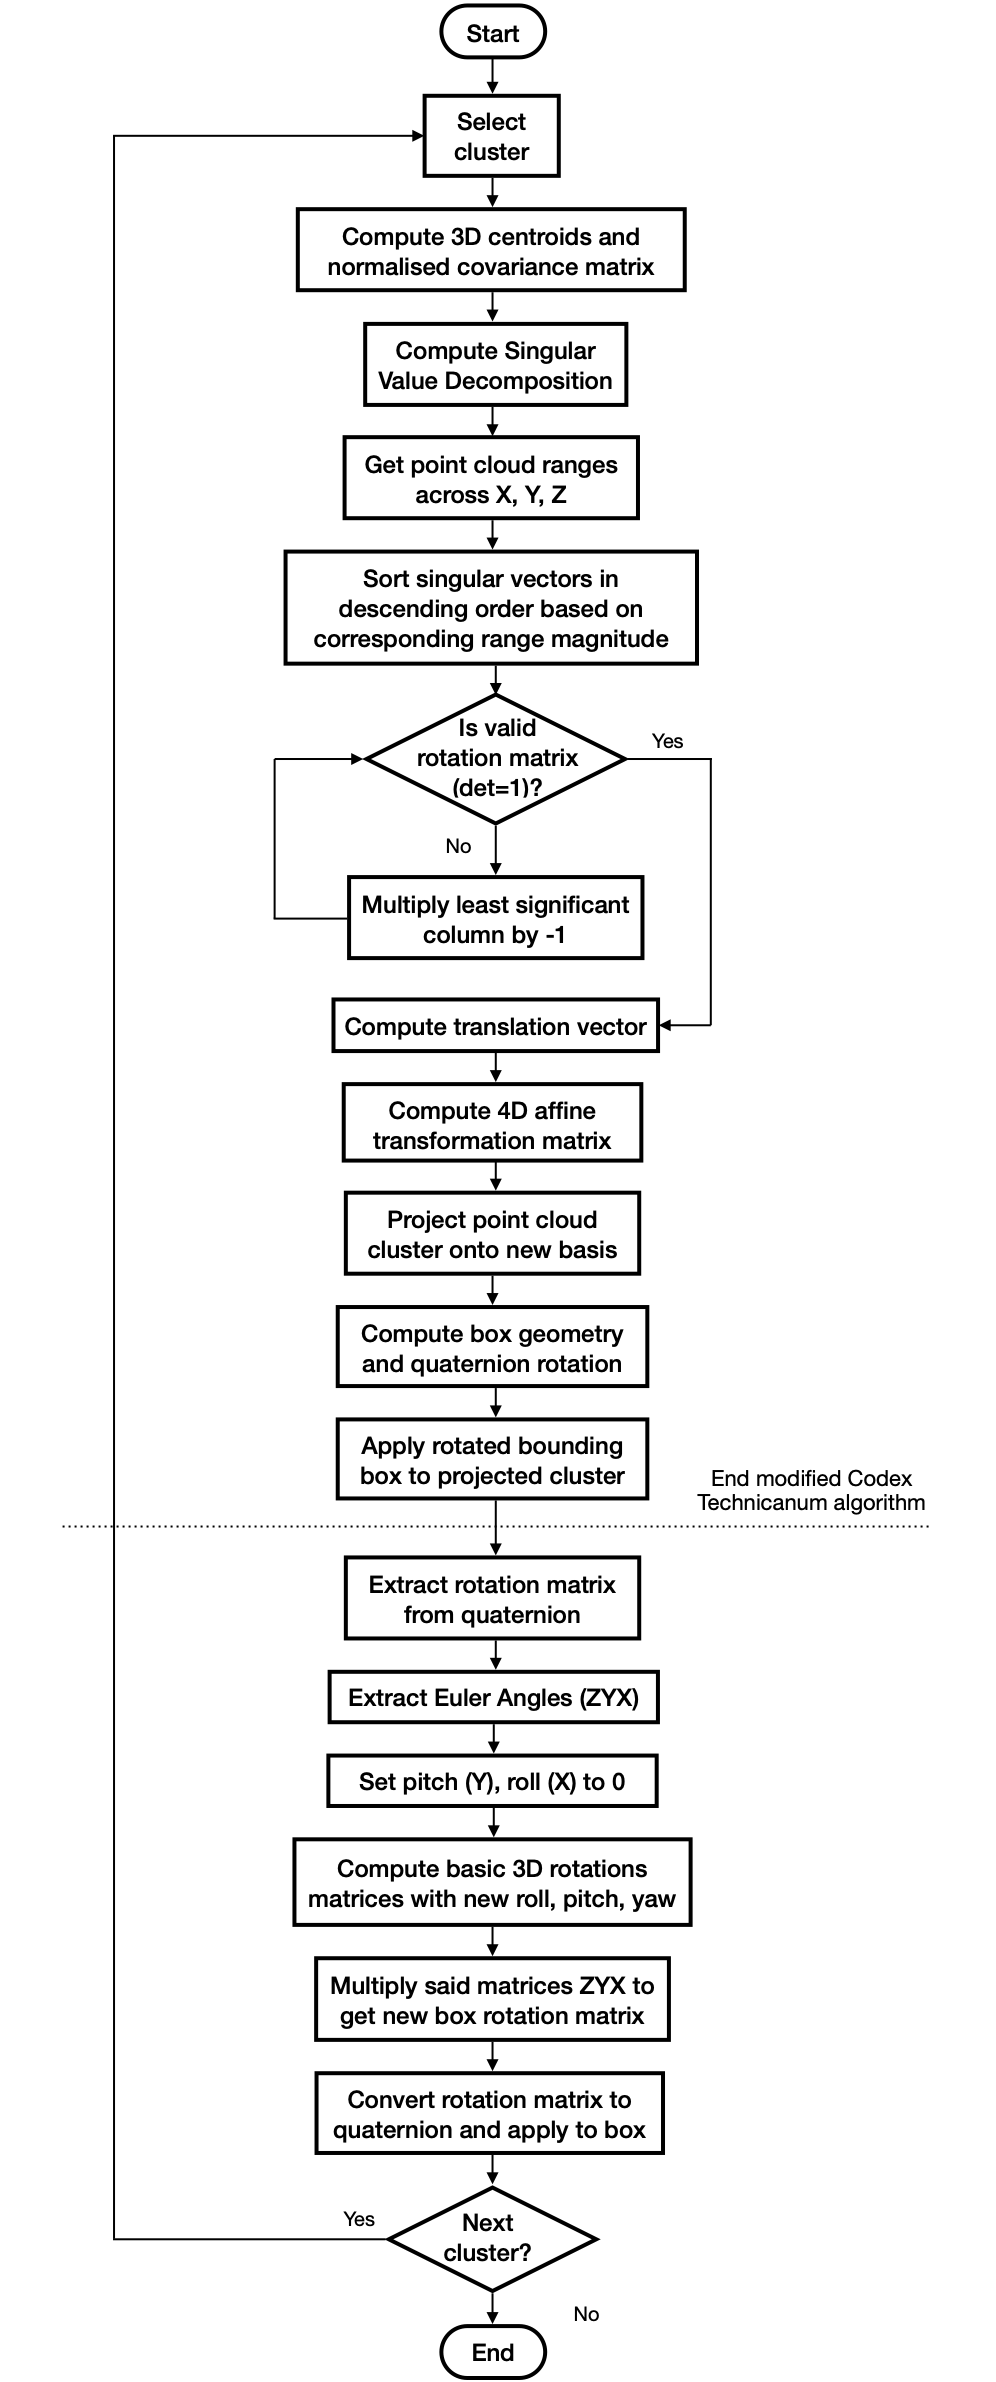
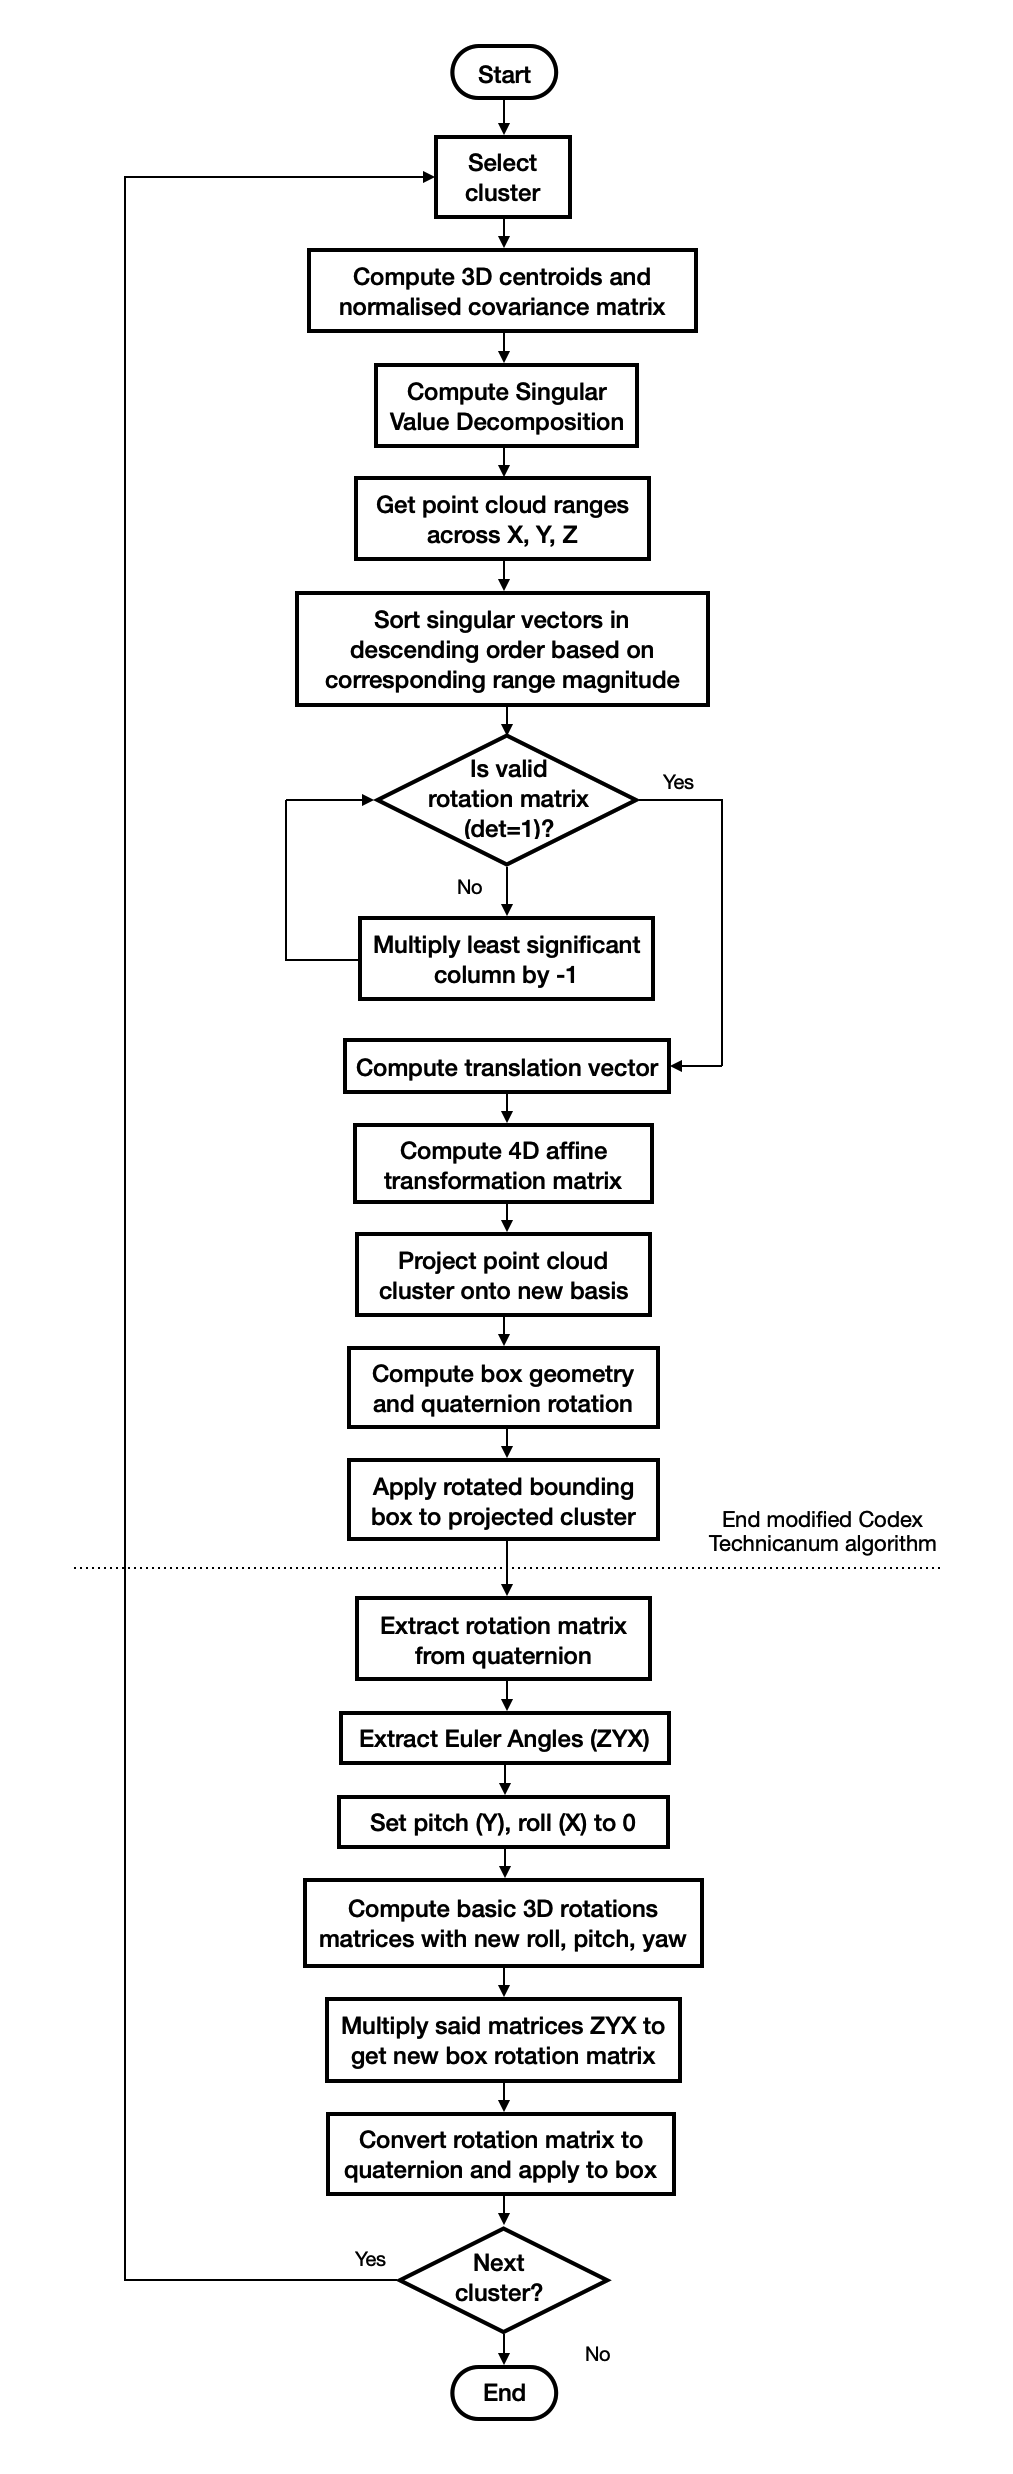
docs: Increase flowchart resolution in p1 README

diff --git a/projects/p1/p1-lidar-obstacle-detection.md b/projects/p1/p1-lidar-obstacle-detection.md
@@ -302,7 +302,8 @@ My take on Udacity's "PCA Boxes Challenge" is the following:
 #### PCA Boxes Custom Algorithm
 
 __Figure 7: PCA Boxes Flowchart__
-<img align="center" src="img/img10.png" width="475"/>
+
+<img align="center" src="img/img10.png" width="400"/>
 
 1. From Codex Technicanum's implementation, replace `Eigen::SelfAdjointEigenSolver` with `Eigen::JacobiSVD` and find matrix V (and singular values S) instead. I generally found that the sign of the eigenvector components is more consistent in this case, and leads to better results visually when fitting the boxes. Overall, this is the step that improved my solution the most.
 
